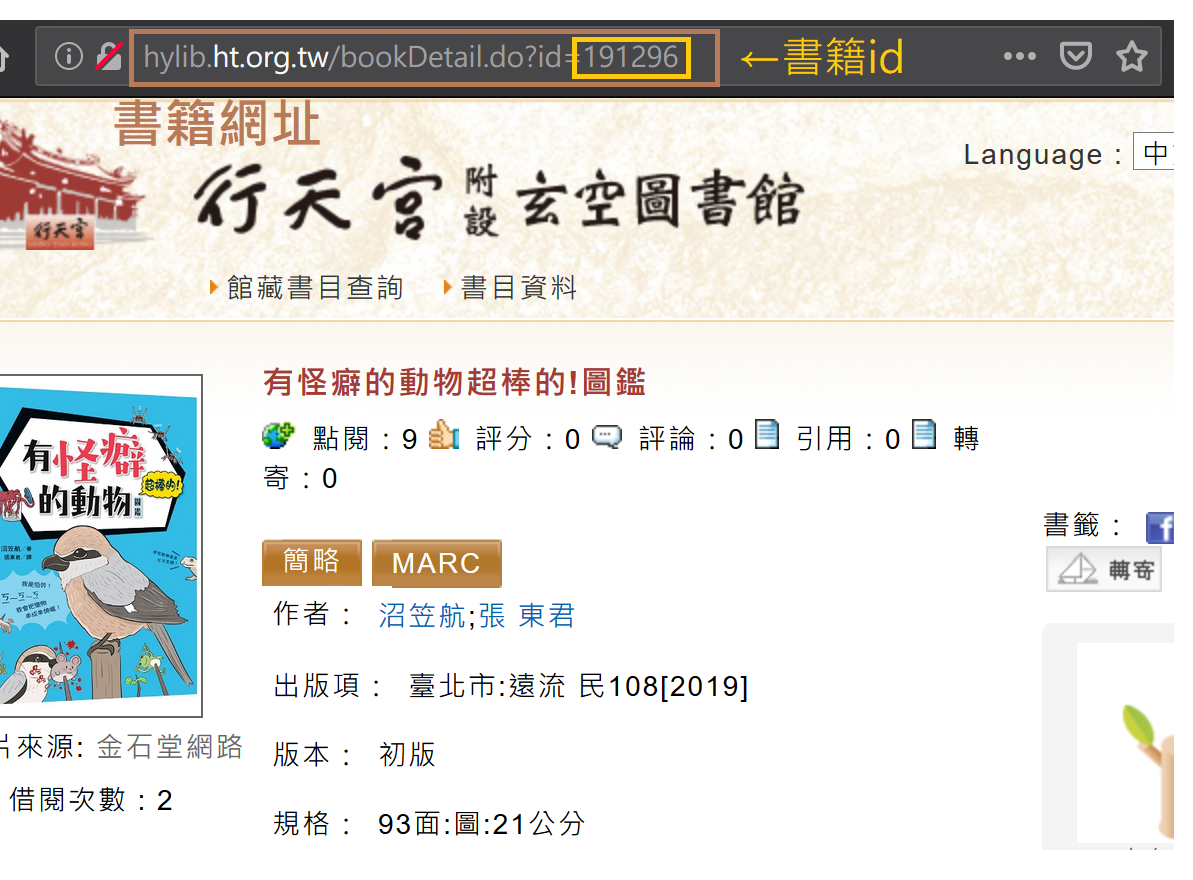
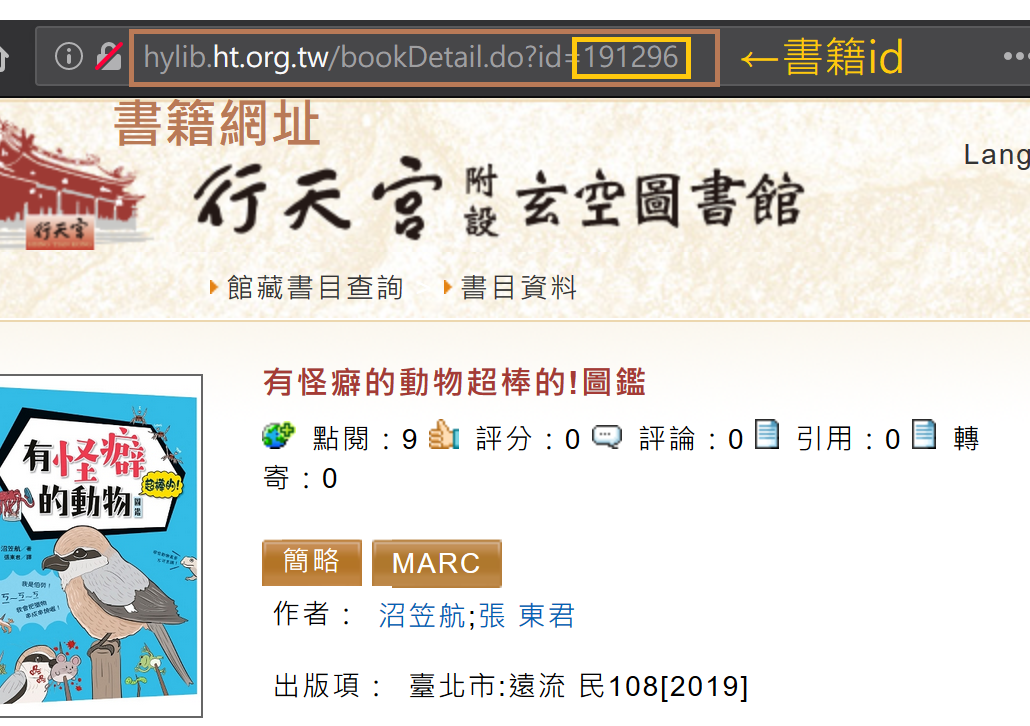
小幅修改使用說明版面

diff --git a/app/templates/index.html b/app/templates/index.html
@@ -32,11 +32,11 @@
 <div class="container"><h4>2. 搜尋欲借閱書籍，並進入該書籍資料頁面</h4></div>
 <br>
 <div class="container"><h4>3. 複製書籍網址，或截取書籍id</h4>
-<img src="{{ url_for('static', filename='url.png') }}" width="70%" alt="">
+<img src="{{ url_for('static', filename='url.png') }}" width="60%" alt="">
 </div>
-<div class="container">
+<div class="container" style="color: rgb(155, 155, 155); margin-top: 10px">
   藉由搜尋功能進入書籍資料頁面時，網址很可能會帶有其它參數，如：<br>
-  http://hylib.ht.org.tw/bookDetail.do?id=192066<strong>&resid=188810387&nowid=1</strong><br>
+  http://hylib.ht.org.tw/bookDetail.do?id=192066<strong >&resid=188810387&nowid=1</strong><br>
   這些額外參數並不會造成影響，<strong>請直接複製整列網址</strong>
 </div>
 <br>
@@ -44,7 +44,7 @@
 <img src="{{ url_for('static', filename='add.png') }}" width="70%" alt="">
 </div>
 <div class="container"><h4>5. 新增成功後，可至個人首頁檢視所有追縱書目</h4>
-<img src="{{ url_for('static', filename='index.png') }}" width="70%" alt="">
+<img src="{{ url_for('static', filename='index.png') }}" width="80%" alt="">
 </div>
 <br>
 
